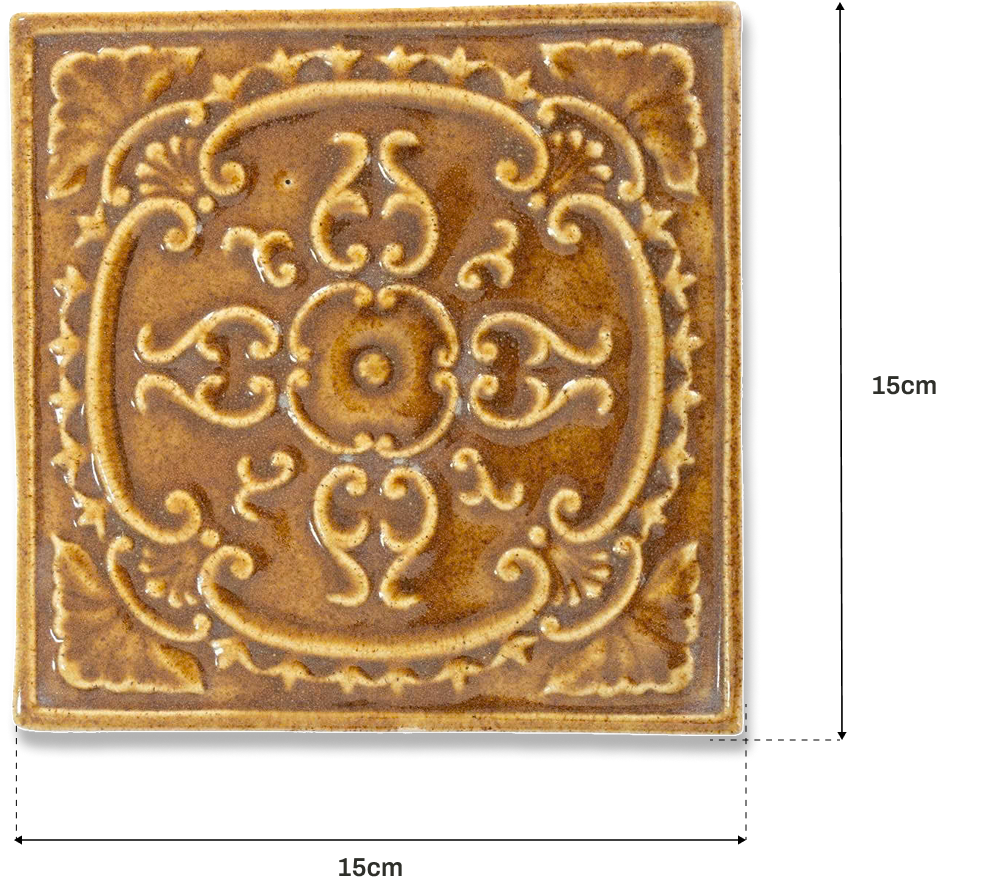
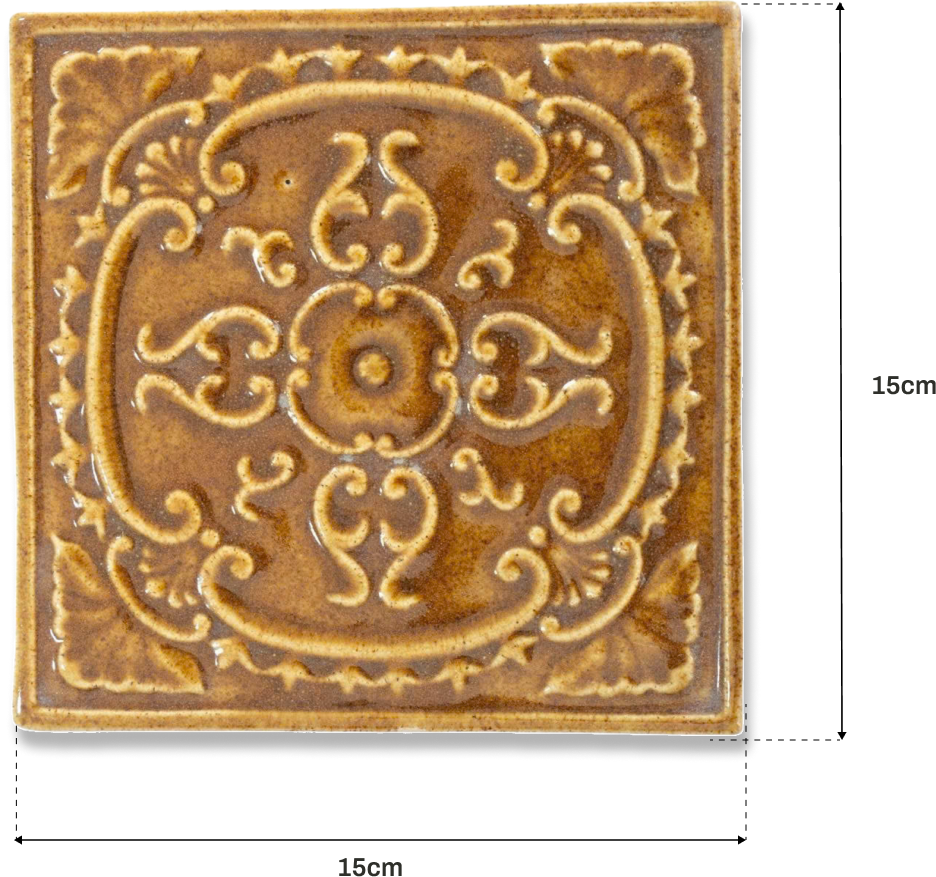
update

diff --git a/src/partials/products/weight-calculator.html b/src/partials/products/weight-calculator.html
@@ -266,33 +266,42 @@
 
         <!-- Extras -->
         <div class="space-y-6">
-          <div class="flex items-center gap-2">
-            <input
-              type="checkbox"
-              id="extra-loss"
-              class="w-5 h-5 border border-black/20 rounded-none bg-transparent checked:bg-secondary checked:border-secondary appearance-none cursor-pointer transition-all"
-            />
-            <label
-              for="extra-loss"
-              class="text-[15px] font-medium text-primary/80 cursor-pointer"
-            >
-              Cộng thêm hao hụt
-            </label>
-            <div class="group relative inline-block ml-1">
-              <div
-                class="w-5 h-5 rounded-full text-primary border-primary border flex items-center justify-center text-[12px] font-bold cursor-pointer"
+          <input
+            type="checkbox"
+            id="extra-loss-weight"
+            class="peer sr-only"
+          />
+          <label
+            for="extra-loss-weight"
+            class="w-fit flex items-center gap-2 cursor-pointer select-none peer-checked:[&_.loss-checkbox-box]:border-secondary peer-checked:[&_.loss-checkbox-box]:bg-secondary peer-checked:[&_.loss-checkbox-icon]:opacity-100 peer-focus-visible:[&_.loss-checkbox-box]:ring-2 peer-focus-visible:[&_.loss-checkbox-box]:ring-secondary/40 peer-focus-visible:[&_.loss-checkbox-box]:ring-offset-1"
+          >
+            <span class="loss-checkbox-box relative flex h-5 w-5 items-center justify-center border border-black/20 rounded-none bg-transparent transition-all">
+              <svg
+                class="loss-checkbox-icon h-3 w-3 text-white opacity-0 transition-opacity"
+                viewBox="0 0 20 20"
+                fill="none"
+                stroke="currentColor"
+                stroke-width="2.5"
+              >
+                <path d="M4 10.5L8 14.5L16 6.5" stroke-linecap="round" stroke-linejoin="round"></path>
+              </svg>
+            </span>
+            <span class="text-[15px] font-medium text-primary/80">Cộng thêm hao hụt</span>
+            <span class="group relative inline-block ml-1">
+              <span
+                class="w-5 h-5 rounded-full text-primary border-primary border flex items-center justify-center text-[12px] font-bold"
               >
                 ?
-              </div>
-              <div
+              </span>
+              <span
                 class="absolute bottom-full left-1/2 -translate-x-1/2 mb-2 w-64 p-3 bg-primary text-white text-[12px] rounded-sm opacity-0 group-hover:opacity-100 pointer-events-none transition-opacity shadow-lg z-10 leading-relaxed"
               >
                 Tính toán dựa trên độ dốc mái thực tế và hao hụt vận chuyển/thi công.
-              </div>
-            </div>
-          </div>
+              </span>
+            </span>
+          </label>
 
-          <div class="pl-7 space-y-4">
+          <div class="pl-7 space-y-4 hidden peer-checked:block">
             <label class="flex items-center gap-3 cursor-pointer group">
               <div class="relative flex items-center justify-center">
                 <input

diff --git a/src/partials/products/quantity-calculator.html b/src/partials/products/quantity-calculator.html
@@ -155,22 +155,33 @@
 
           <!-- Extras -->
           <div class="space-y-4 pt-4 border-t border-black/10">
-            <div class="flex items-center gap-3">
-              <input
-                type="checkbox"
-                id="extra-loss"
-                class="w-5 h-5 border border-black/20 rounded-none bg-transparent checked:bg-secondary checked:border-secondary appearance-none cursor-pointer transition-all"
-              />
-              <label
-                for="extra-loss"
-                class="text-[15px] font-medium text-primary/80 cursor-pointer flex items-center gap-2"
-              >
+            <input
+              type="checkbox"
+              id="extra-loss-quantity"
+              class="peer sr-only"
+            />
+            <label
+              for="extra-loss-quantity"
+              class="w-fit text-[15px] font-medium text-primary/80 cursor-pointer flex items-center gap-3 select-none peer-checked:[&_.loss-checkbox-box]:border-secondary peer-checked:[&_.loss-checkbox-box]:bg-secondary peer-checked:[&_.loss-checkbox-icon]:opacity-100 peer-focus-visible:[&_.loss-checkbox-box]:ring-2 peer-focus-visible:[&_.loss-checkbox-box]:ring-secondary/40 peer-focus-visible:[&_.loss-checkbox-box]:ring-offset-1"
+            >
+              <span class="loss-checkbox-box relative flex h-5 w-5 items-center justify-center border border-black/20 rounded-none bg-transparent transition-all">
+                <svg
+                  class="loss-checkbox-icon h-3 w-3 text-white opacity-0 transition-opacity"
+                  viewBox="0 0 20 20"
+                  fill="none"
+                  stroke="currentColor"
+                  stroke-width="2.5"
+                >
+                  <path d="M4 10.5L8 14.5L16 6.5" stroke-linecap="round" stroke-linejoin="round"></path>
+                </svg>
+              </span>
+              <span class="flex items-center gap-2">
                 Cộng thêm hao hụt
                 <span class="w-5 h-5 rounded-full border border-primary/40 text-primary/60 flex items-center justify-center text-[10px] font-bold">?</span>
-              </label>
-            </div>
+              </span>
+            </label>
 
-            <div class="pl-8 space-y-3">
+            <div class="pl-8 space-y-3 hidden peer-checked:block">
               <label class="flex items-center gap-3 cursor-pointer group">
                 <div class="relative flex items-center justify-center">
                   <input
